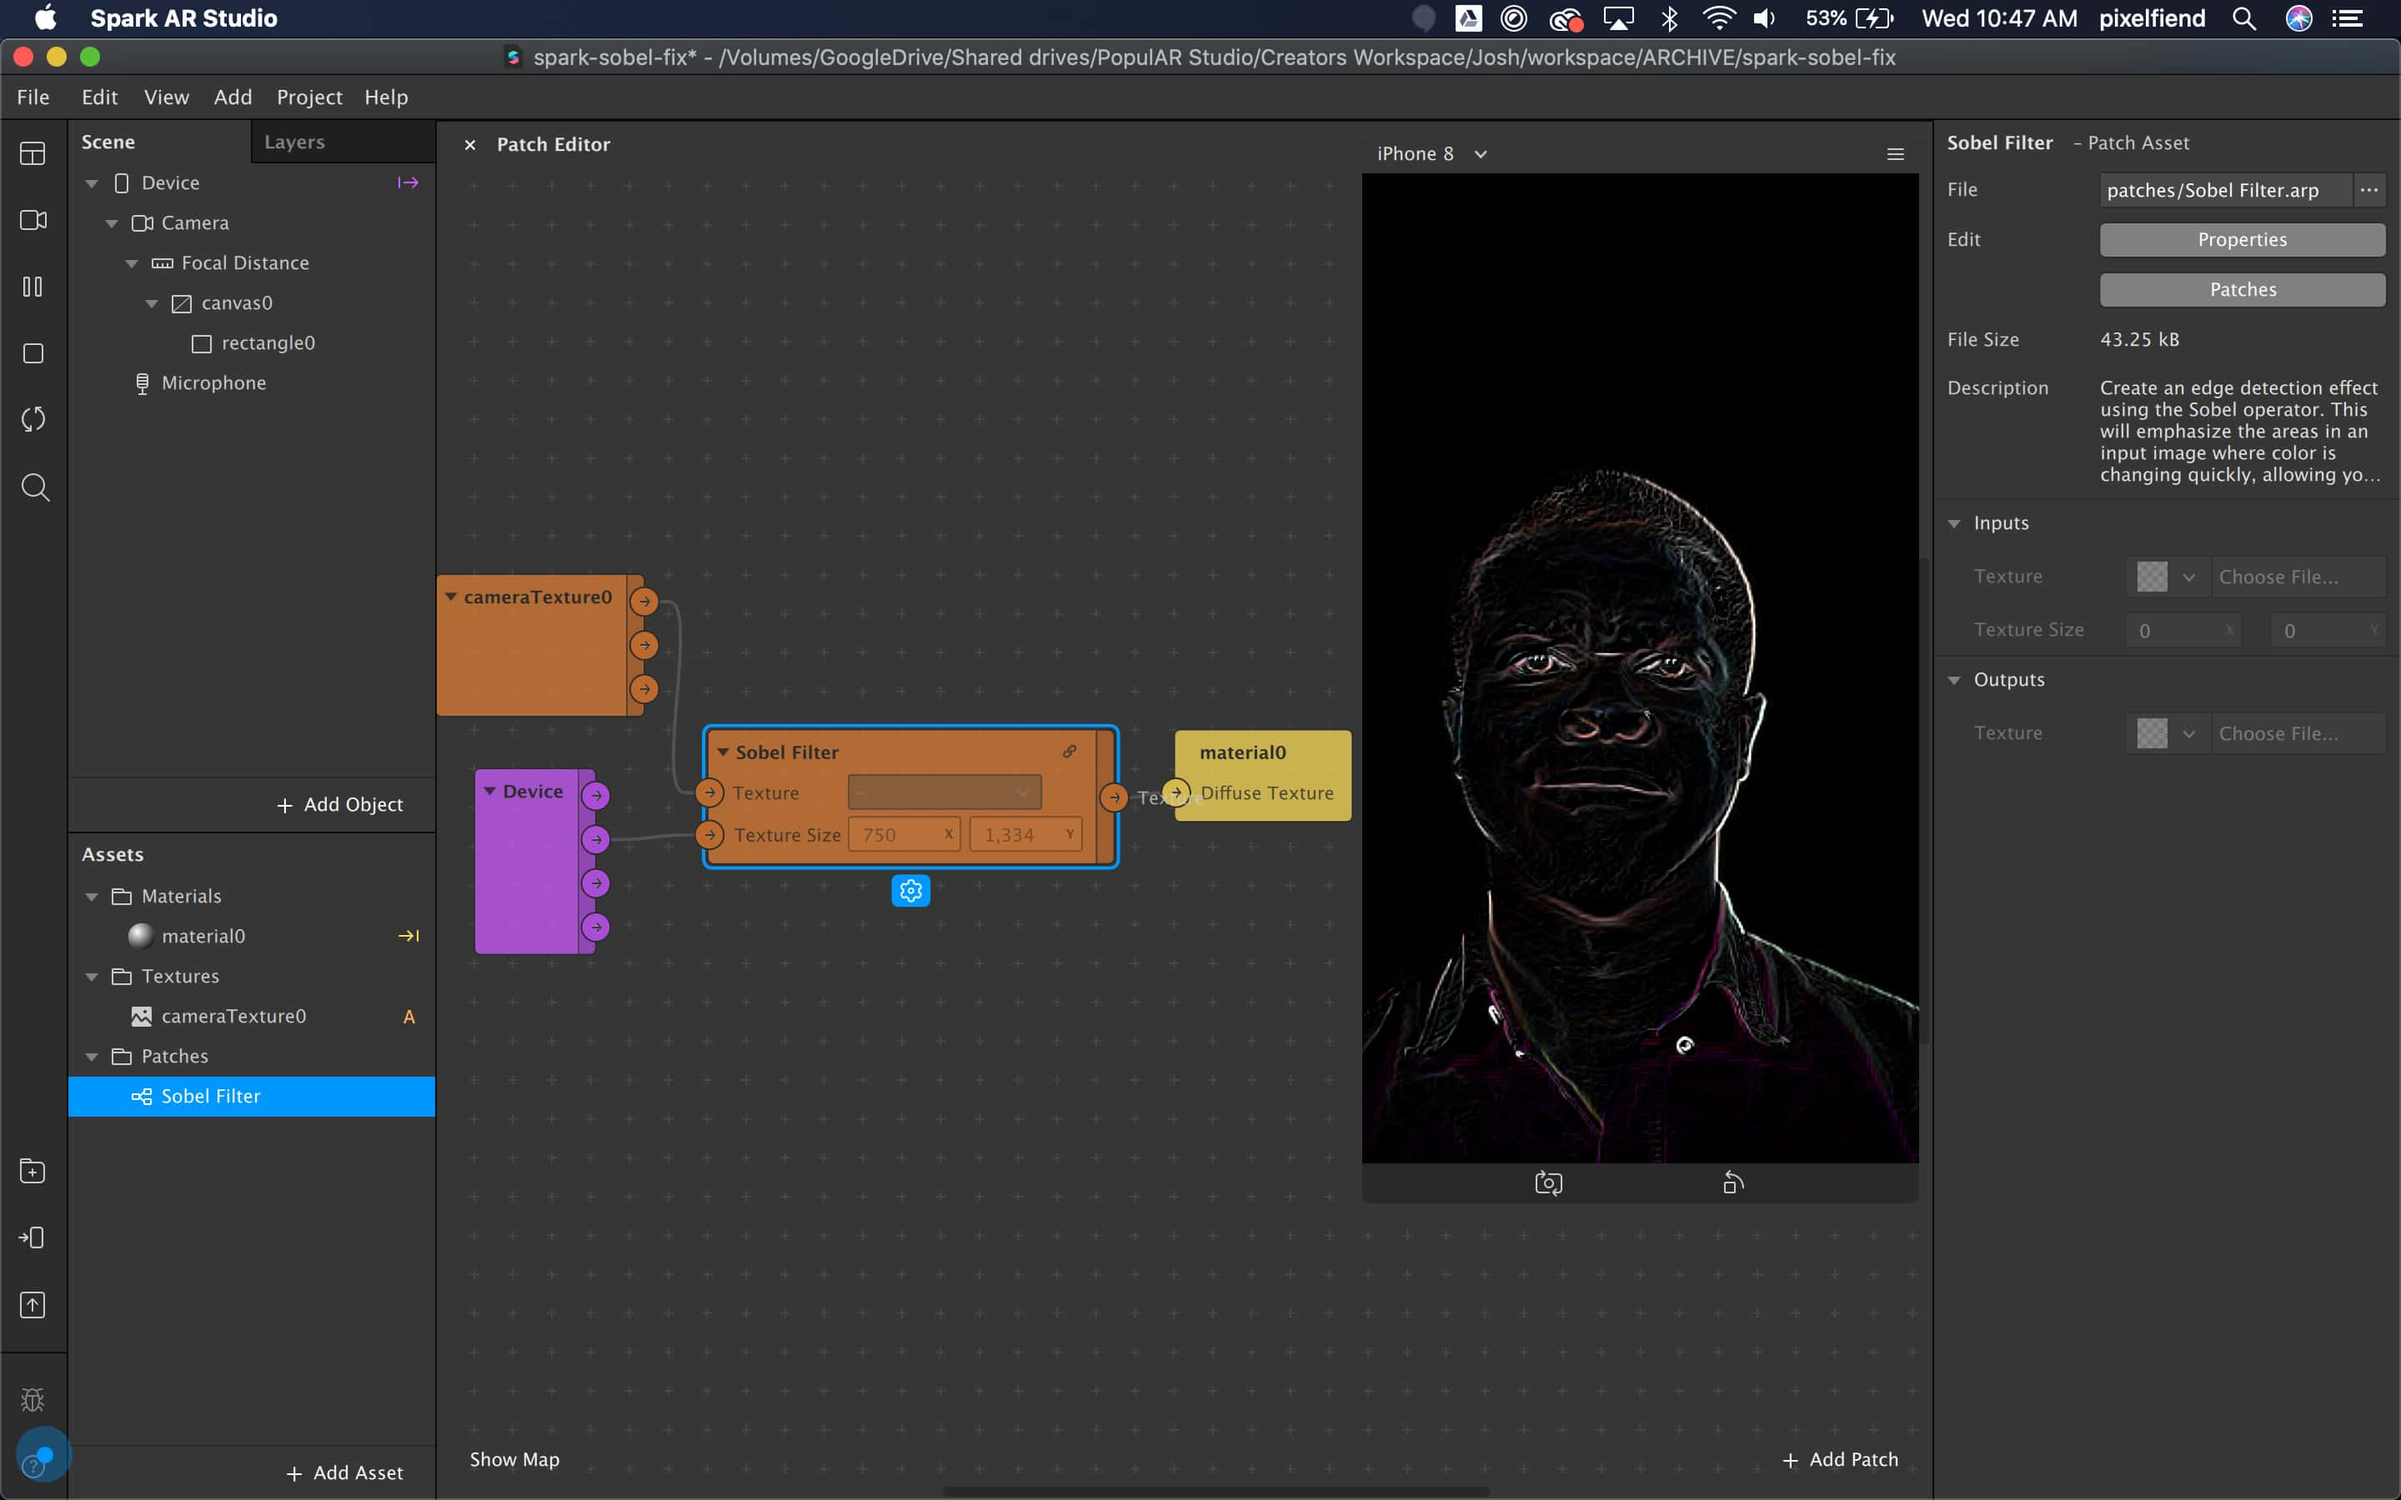
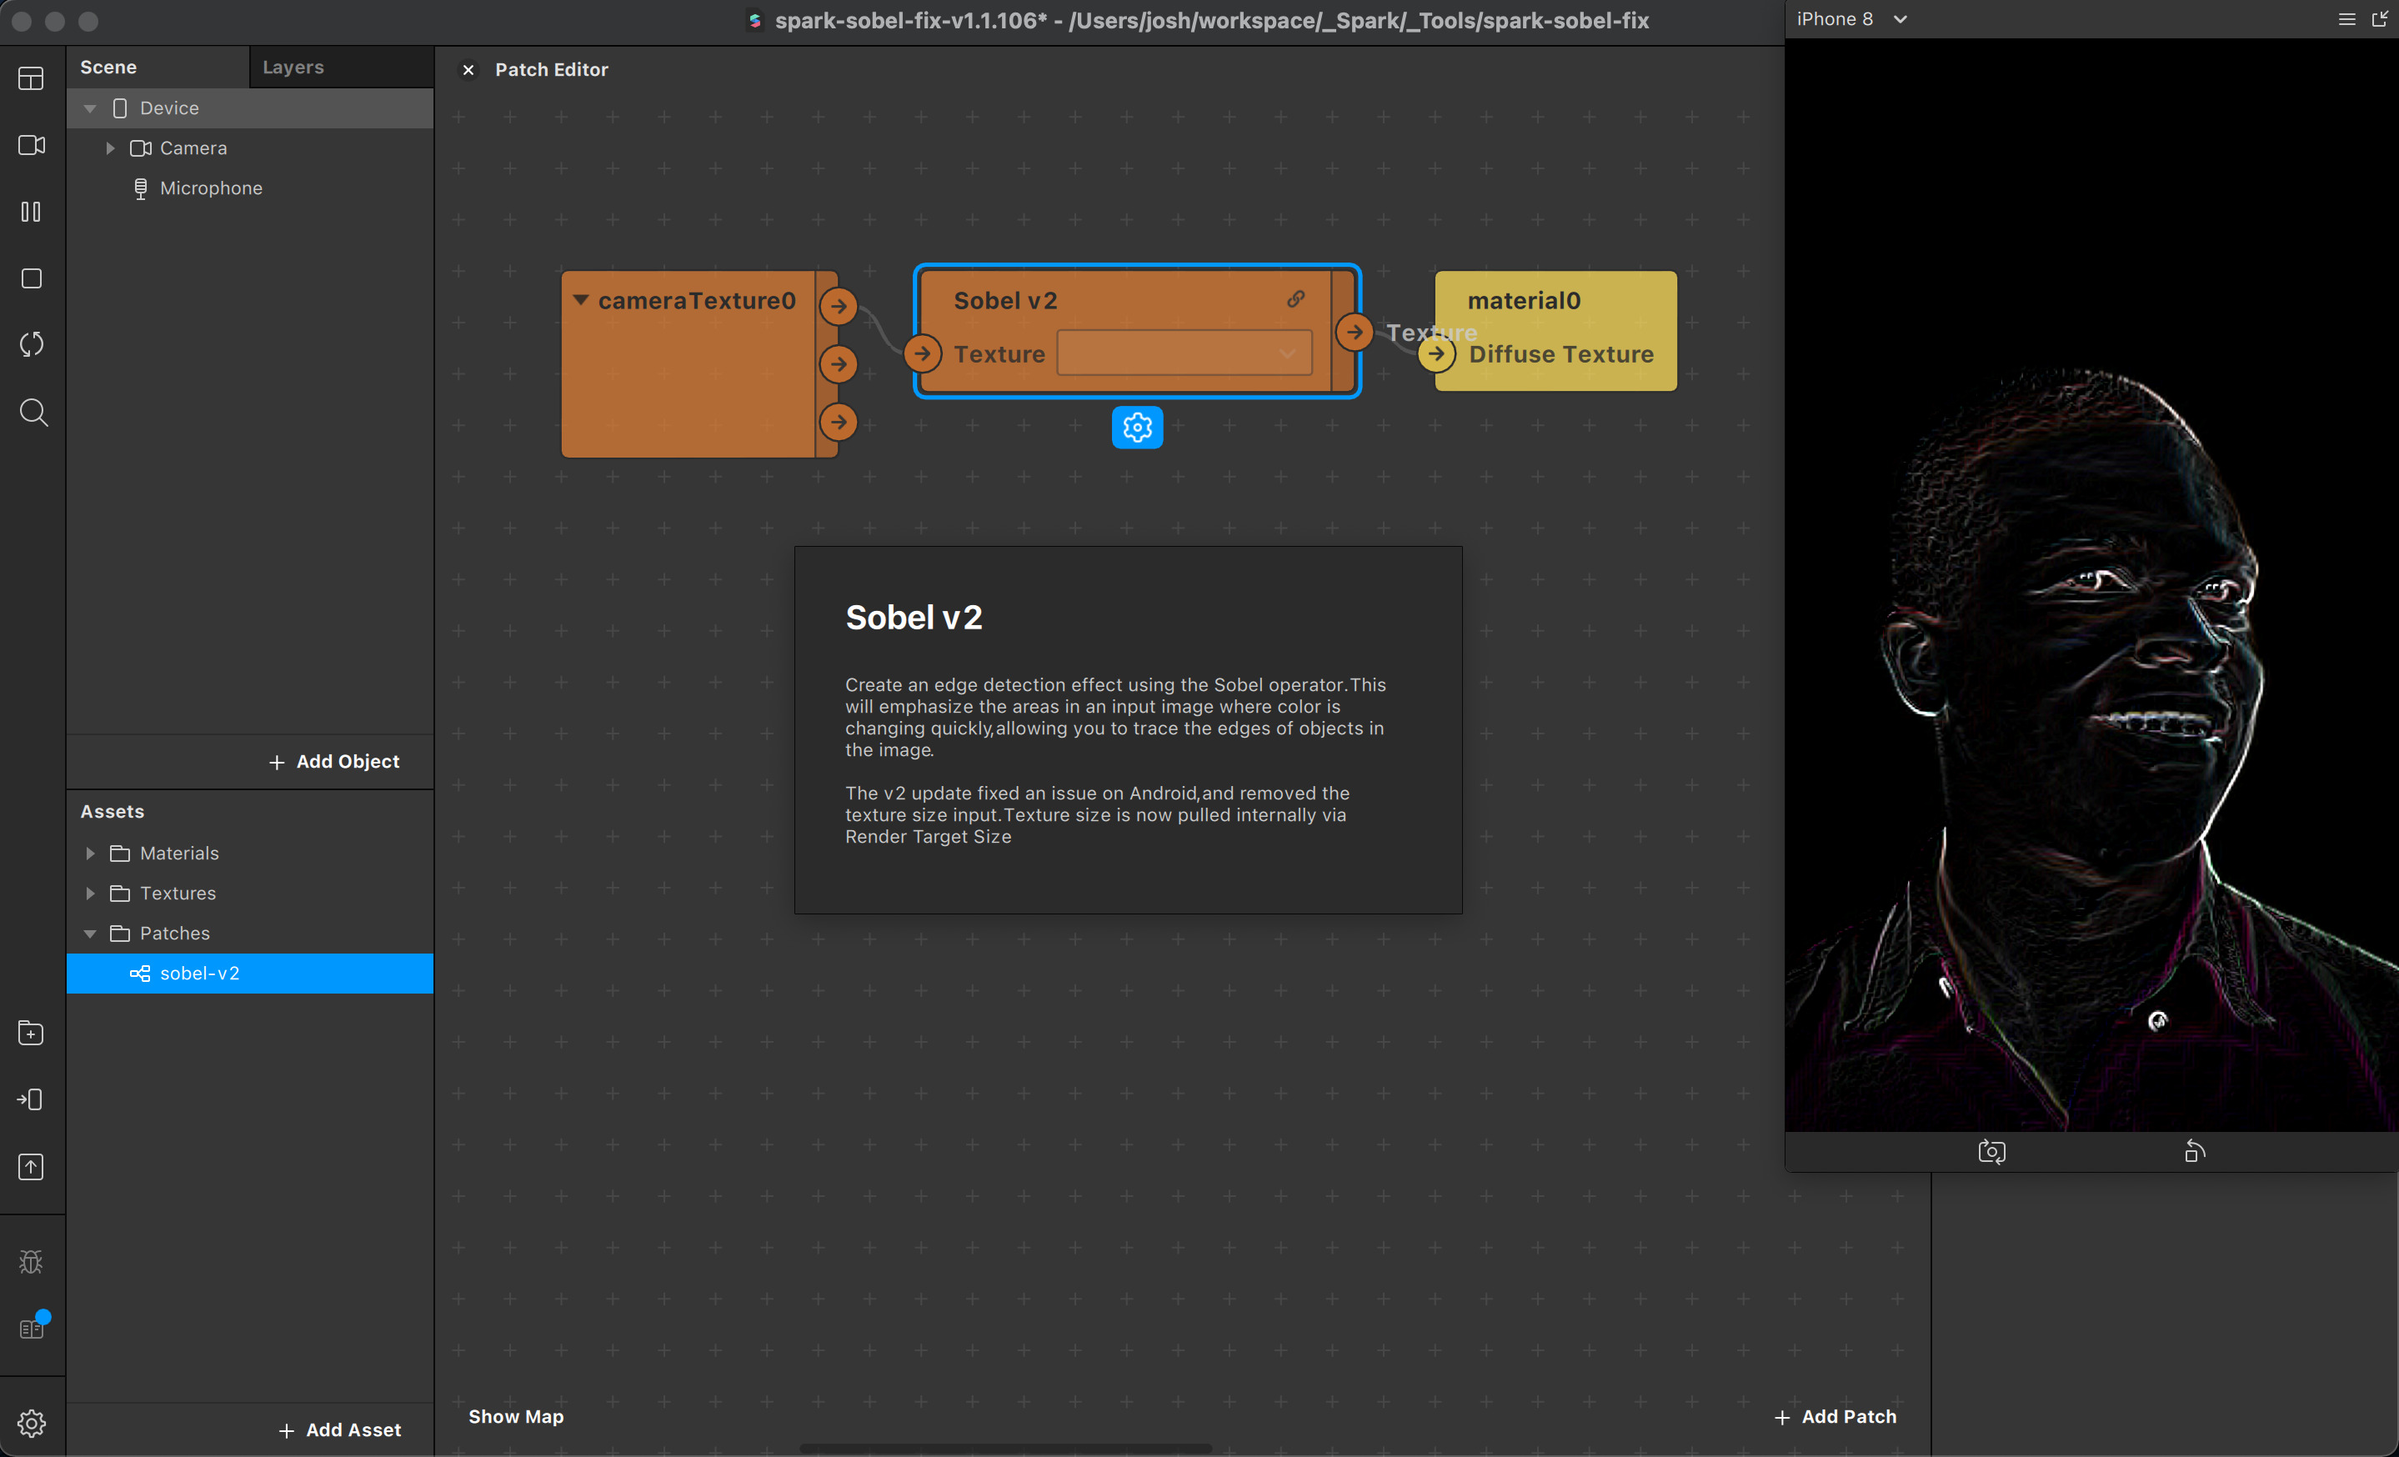
update docs

diff --git a/README.md b/README.md
@@ -1,7 +1,9 @@
 ## Sobel patch fix
 
-The sobel patch in the Spark asset library is great, but it has an awful bug on Android devices. This is a fixed version of the patch!
+The sobel patch in the Spark asset library is great, but it has an awful bug on Android devices. This is a fixed version of the patch! 
 
 <img src="./images/broken.jpg" width="200"><img src="./images/fixed.jpg" width="200">
 
-![screenshot](screenshot.jpg)
+To make your life easier, the texture size input has been replaced with an internal `Render Target Size` patch.
+
+![screenshot](./images/screenshot.jpg)
